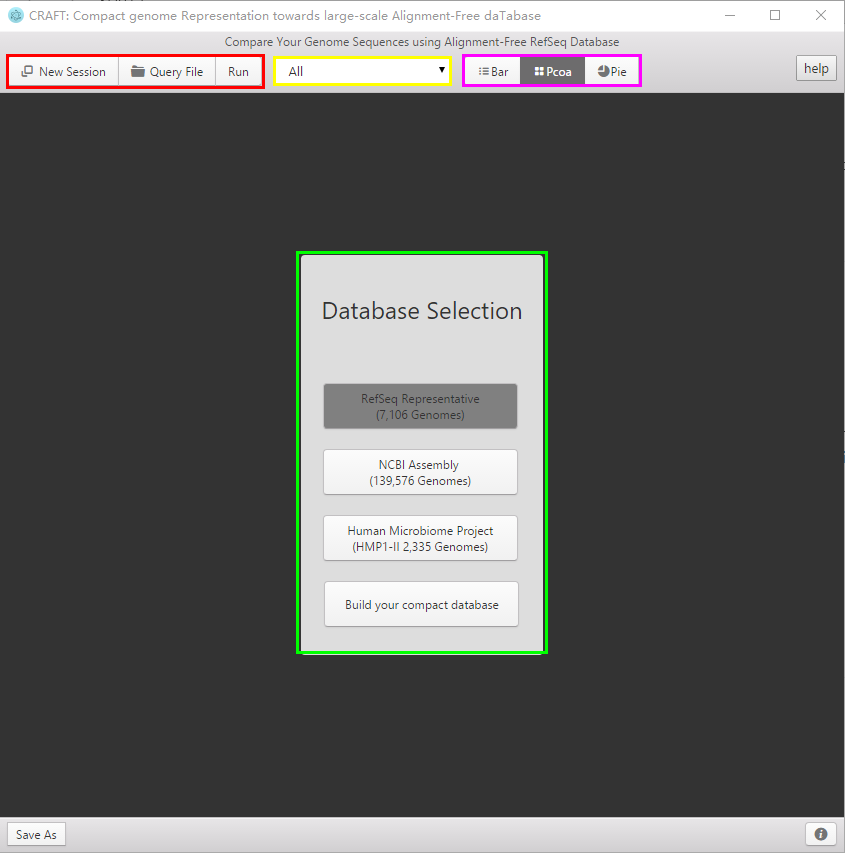
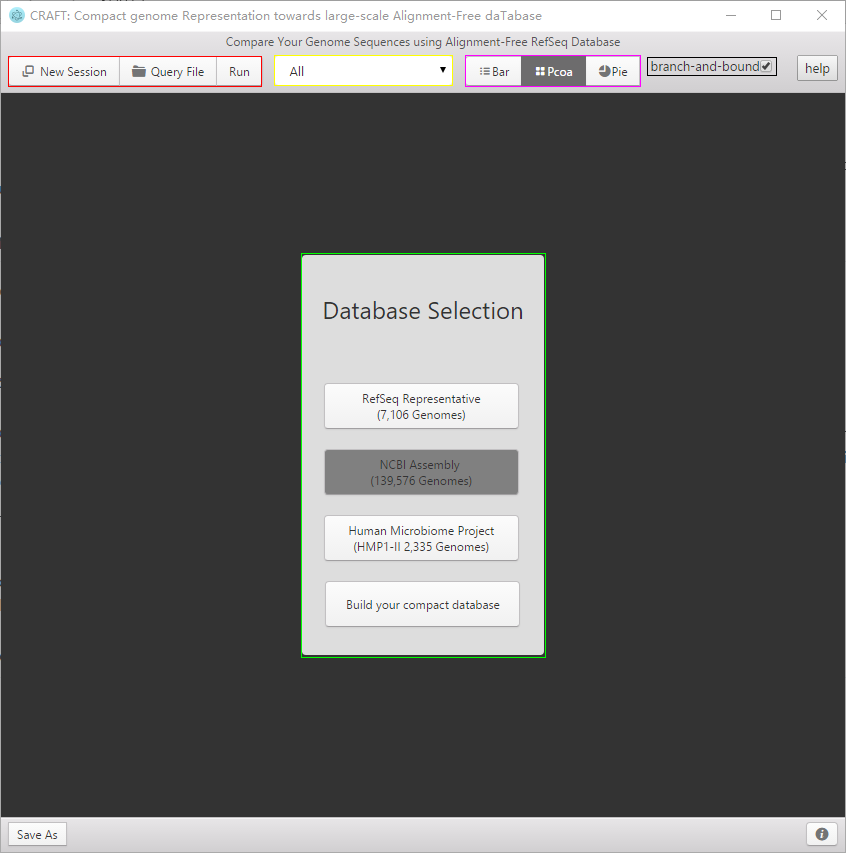
new

diff --git a/README.md b/README.md
@@ -15,7 +15,7 @@ Thank you for downloading CRAFT, a tool for Compact Representations of large-sca
 
 CRAFT is composed of two modules:
 
-(A)	Precompute the compact representations of genomic/metagenomic databases. The compact databases were precomputed to embedding vectors and stored in CRAFT with the following steps: count the co-occurred k-mers of the query sequences with sliding window; based on the co-occurrence of context k-mers, each k-mer is tranformed to a vector (embedding). Current CRAFT stored Refseq representative/complete genome and HMP1-II metagenome databases.
+(A)	Precompute the compact representations of genomic/metagenomic databases. The compact databases were precomputed to embedding vectors and stored in CRAFT with the following steps: count the co-occurred k-mers of the query sequences with sliding window; based on the co-occurrence of context k-mers, each k-mer is tranformed to a vector (embedding). Current CRAFT stored Refseq representative genome database, NCBI assembly genome database and HMP1-II metagenome dataset.
 
 (B)	Fast query for N-nearest neighbors in databases for the input DNA data. When a user input a nucleotide sequencing data or a long DNA sequence, the query sequence(s) will be transformed to embedding vector and calculate the distance with the reference database, and output the top N-nearest neighbors in the database. When a user input the query of an unknown sequencing data or a long genomic sequence, CRAFT fast returns the top 10 nearest neighbors from the precomputed compact database which has smallest dissimilarity with the query data.
 
@@ -34,11 +34,11 @@ Three pre-computed compact databases
 
 Currently, we pre-compacted the three databases
 
-(1) All the 139,576 Refseq assembly nucleotide genomes, updated by June, 2018. The size of the database is compacted from 829.60GB(.fa) to 3GB.--*(Since this database requires 3GB of space, it is not included in the zip file. During the running of CRAFT, if the user selected the button of "Refseq complete genome", the download webpage will be automatic linked or [**here**](https://github.com/jiaxingbai/CRAFT/blob/master/download-refseq.md)  to download and save in ./CRAFT-linux-x64/Refseq folder or ./CRAFT_wins_1.0/Refseq. )*
+(1) All the 139,576 NCBI assembly nucleotide genomes, updated by June, 2018. The size of the database is compacted from 829.60GB(.fa) to 3GB.--*(Since this database requires 3GB of space, it is not included in the zip file. During the running of CRAFT, if the user selected the button of "NCBI assembly", the download webpage will be automatic linked or [**here**](https://github.com/jiaxingbai/CRAFT/blob/master/download-refseq.md)  to download and save in ./CRAFT-linux-x64/Refseq folder or ./CRAFT_wins_1.0/Refseq. )*
 
 (2)The 7,106 Refseq representative nucleotide genomes, updated by June, 2018. The size of the database is compacted from 376.38GB(.fa) to 148M.--*(This database is included in the zip file.)*
 
-(3)The 2,355HMP1-II metagenomic samples, which includes **309 skin samples, 234 Vaginal samples, 1,259 Oral samples and 553 Gutsamples,** from 7.13TB (.sra) to 50.4 MB. The sample information is [**here**](https://github.com/jiaxingbai/CRAFT/blob/master/HMP1-II-info.txt).--*(This database is included in the zip file.)*
+(3)The 2,355 HMP 1-II metagenomic samples, which includes **309 skin samples, 234 Vaginal samples, 1,259 Oral samples and 553 Gutsamples,** from 7.13TB (.sra) to 50.4 MB. The sample information is [**here**](https://github.com/jiaxingbai/CRAFT/blob/master/HMP1-II-info.txt).--*(This database is included in the zip file.)*
 
 
 Direct Running
@@ -90,9 +90,11 @@ The graphical user interface has the layout shown in the above figure, containin
 
 2、Green area : Select the database to compare or build your database to compare.
 
-3、Yellow area : Select the subgroup for comparison in the database. The refseq database includes: Archaea, Bacteria, Fungi, Invertebrate, Plant, Vertebrate, Mammalian, Vertebrate other and Viral. The HMP1-II database includes: skin, oral, vaginal and gut.
+3、Yellow area : Select the subgroup for comparison in the database. Refseq representative database and  NCBI assembly database includes: Archaea, Bacteria, Fungi, Invertebrate, Plant, Vertebrate, Mammalian, Vertebrate other and Viral. The HMP1-II dataset includes: skin, oral, vaginal and gut.
 
-4、Purple area : Three visualizations of the comparing result : including the distance bar graphe, two dimensional projection using principal coordinate analysis (PCoA) and sequence clustering into a rounded dendrogram by using the neighbor-joining algorithm. Each analysis is shown in the respective tabbed window. The figure can be saved locally by clicking the button or right-clicking the mouse.
+4、Black area : Select whether to use the branch and bound algorithm only in  NCBI assembly database.( To speed up the search, the default is selected. )
+
+5、Purple area : Three visualizations of the comparing result : including the distance bar graphe, two dimensional projection using principal coordinate analysis (PCoA) and sequence clustering into a rounded dendrogram by using the neighbor-joining algorithm. Each analysis is shown in the respective tabbed window. The figure can be saved locally by clicking the button or right-clicking the mouse.
 
 ![alt tag](https://raw.githubusercontent.com/jiaxingbai/CRAFT/master/new_img/save_but.jpg) : Save the current figure.
 
@@ -100,25 +102,25 @@ The graphical user interface has the layout shown in the above figure, containin
   <img src="https://raw.githubusercontent.com/jiaxingbai/CRAFT/master/new_img/saveas.png"/ width="600" height="550">
 </p>
 
-5、	Blue area in following figure：The blue area gives the tracking of running steps of distance measures.
+6、	Blue area in following figure：The blue area gives the tracking of running steps of distance measures.
 
 <p align="center">
   <img src="https://raw.githubusercontent.com/jiaxingbai/CRAFT/master/new_img/track.jpg"/ width="600" height="550">
 </p>
 
-6、  On this page you can build your own database and calculate the CRAFT distance between each genome pair in the database. It is also possible to input a new genome to get the top 10-nearest neighbors in the database.The built database is stored as My_Database/ My_Database by default.Using the ![alt tag](https://raw.githubusercontent.com/jiaxingbai/CRAFT/master/new_img/import_but.png) button to switch to the interface which can load prebuilt database.
+7、  On this page you can build your own database and calculate the CRAFT distance between each genome pair in the database. It is also possible to input a new genome to get the top 10-nearest neighbors in the database.The built database is stored as My_Database/ My_Database by default.Using the ![alt tag](https://raw.githubusercontent.com/jiaxingbai/CRAFT/master/new_img/import_but.png) button to switch to the interface which can load prebuilt database.
 
 <p align="center">
   <img src="https://raw.githubusercontent.com/jiaxingbai/CRAFT/master/new_img/prebuilt.png"/ width="600" height="550">
 </p>
 
-7、 In this interface you can import your prebuilt database. It is also possible to input a new genome to get the top 10-nearest neighbors in the database.
+8、 In this interface you can import your prebuilt database. It is also possible to input a new genome to get the top 10-nearest neighbors in the database.
 
 <p align="center">
   <img src="https://raw.githubusercontent.com/jiaxingbai/CRAFT/master/new_img/import.png"/ width="600" height="550">
 </p>
 
-8、  The text files of the produced kmer embedding vector and the distance matrix are saved in folder resources/app/output for user's further analysis.
+9、  The text files of the produced kmer embedding vector and the distance matrix are saved in folder resources/app/output for user's further analysis.
 
 An  Example of Graphical User Interface
 ------------------------
@@ -130,7 +132,7 @@ An  Example of Graphical User Interface
 
 1、Click ![alt tag](https://raw.githubusercontent.com/jiaxingbai/CRAFT/master/new_img/newssion_but.jpg) to start a new session.
 
-2、Select Refseq representative/complete database or the HMP1-II dataset.
+2、Select Refseq representative NCBI assembly database or the HMP1-II dataset.
 
 3、Click the button ![alt tag](https://raw.githubusercontent.com/jiaxingbai/CRAFT/master/new_img/add_but.jpg) and select the testing data under "data" folder. And click the button ![alt tag](https://raw.githubusercontent.com/jiaxingbai/CRAFT/master/new_img/run_but.jpg). The results in text format will be saved in folder with the naming of resources/app/output/. When same query file is input again, CRAFT will reload the resulting file and directly offer the visualization figures.
 
@@ -199,28 +201,31 @@ Once the visualized results have been plotted, the figure can be saved locally b
 Usage of  command line running
 ------------------------
 
-> Command:   ./CRAFT.sh  -i (input file) -o (output dir) -d (database) -s (kingdom|option)
+> Command:   Query data: ./CRAFT.sh  -i < input file > -o < output dir > -d < database > -s < kingdom|option >
+             Compact database: ./CRAFT.sh  -c < path file > -r < database output name >  -o < output dir >
 
 > - Main arguments:
 
 	-i   <input file> :  Input your query sequence fasta file.
 
-	-o   <output dir> : The folder for Ooutput results to file at <output dir>.
+	-o   <output dir> : The folder for kmc, embedding adn query results to file at <output dir>.
 
-	-d   <database>   :  The compact database for comparison with the query sequences.You can use different database in Refseq floder. E.g :
+	-d   <database>   :  The compact database for comparison with the query sequences.You can use different database in Refseq floder or your prebulit database. E.g :
                          Refseq/Refseq
                          Refseq/Refseqrep
                          Refseq/HMP
 
 
-    -c  <compact fasta file> : Input your fasta file to build your own compact database.
+    -c  <path file> : A file that lists the paths of the fna file.
 
-	-r  <database output dir> :  Output your own compact database to file at <database output dir>.
+	-r  <database output name> :  Output your own compact database to file at <database output namee>.
 
-	-s   <kingdom|option> :  This argument is optional. It limits the is a optionthe subgroups for comparison. You can choose the kingdom to reduce the computing time. But it is ddifferent in different database.
+	-s   <kingdom|option> :  This argument is optional.
+	    It limits the is a option the subgroups for comparison. You can choose the kingdom to reduce the computing time. But it is different in different database.
 
 		Refseq :
-		    1. all 2. archaea 3. bacteria 4. fungi 5. invertebrate 6. plant 7. protozoa 8.vertebrate_mammalian 9 vertebrate_other 10. viral
+		    1. all 2. archaea 3. bacteria 4. fungi 5. invertebrate 6. plant
+		    7. protozoa 8.vertebrate_mammalian 9 vertebrate_other 10. viral
 
 		Refseq_rep :
 		    1. all
@@ -238,7 +243,7 @@ Usage of  command line running
         ./CRAFT.sh -i testdata/Testing-Metagenome-HumanGut-ERR011201.fna.gz -o resources/app/output/ -d Refseq/HMP -s all
 
     Build your own compact database:
-        ./CRAFT.sh -c testdata/build/GCF_000006665.1_ASM666v1_genomic.fna.gz,testdata/build/GCF_000006925.2_ASM692v2_genomic.fna.gz,testdata/build/GCF_000007445.1_ASM744v1_genomic.fna.gz,testdata/build/GCF_000008865.2_ASM886v2_genomic.fna.gz,testdata/build/GCF_000012005.1_ASM1200v1_genomic.fna.gz -r ./my_database -o resources/app/
+        ./CRAFT.sh -c test.txt -r ./my_database -o resources/app/
 
     Load your prebuilt database to compare the input fasta file:
         ./CRAFT.sh -i testdata/Testing-Metagenome-HumanGut-ERR011201.fna.gz -o resources/app/output/ -d my_database
